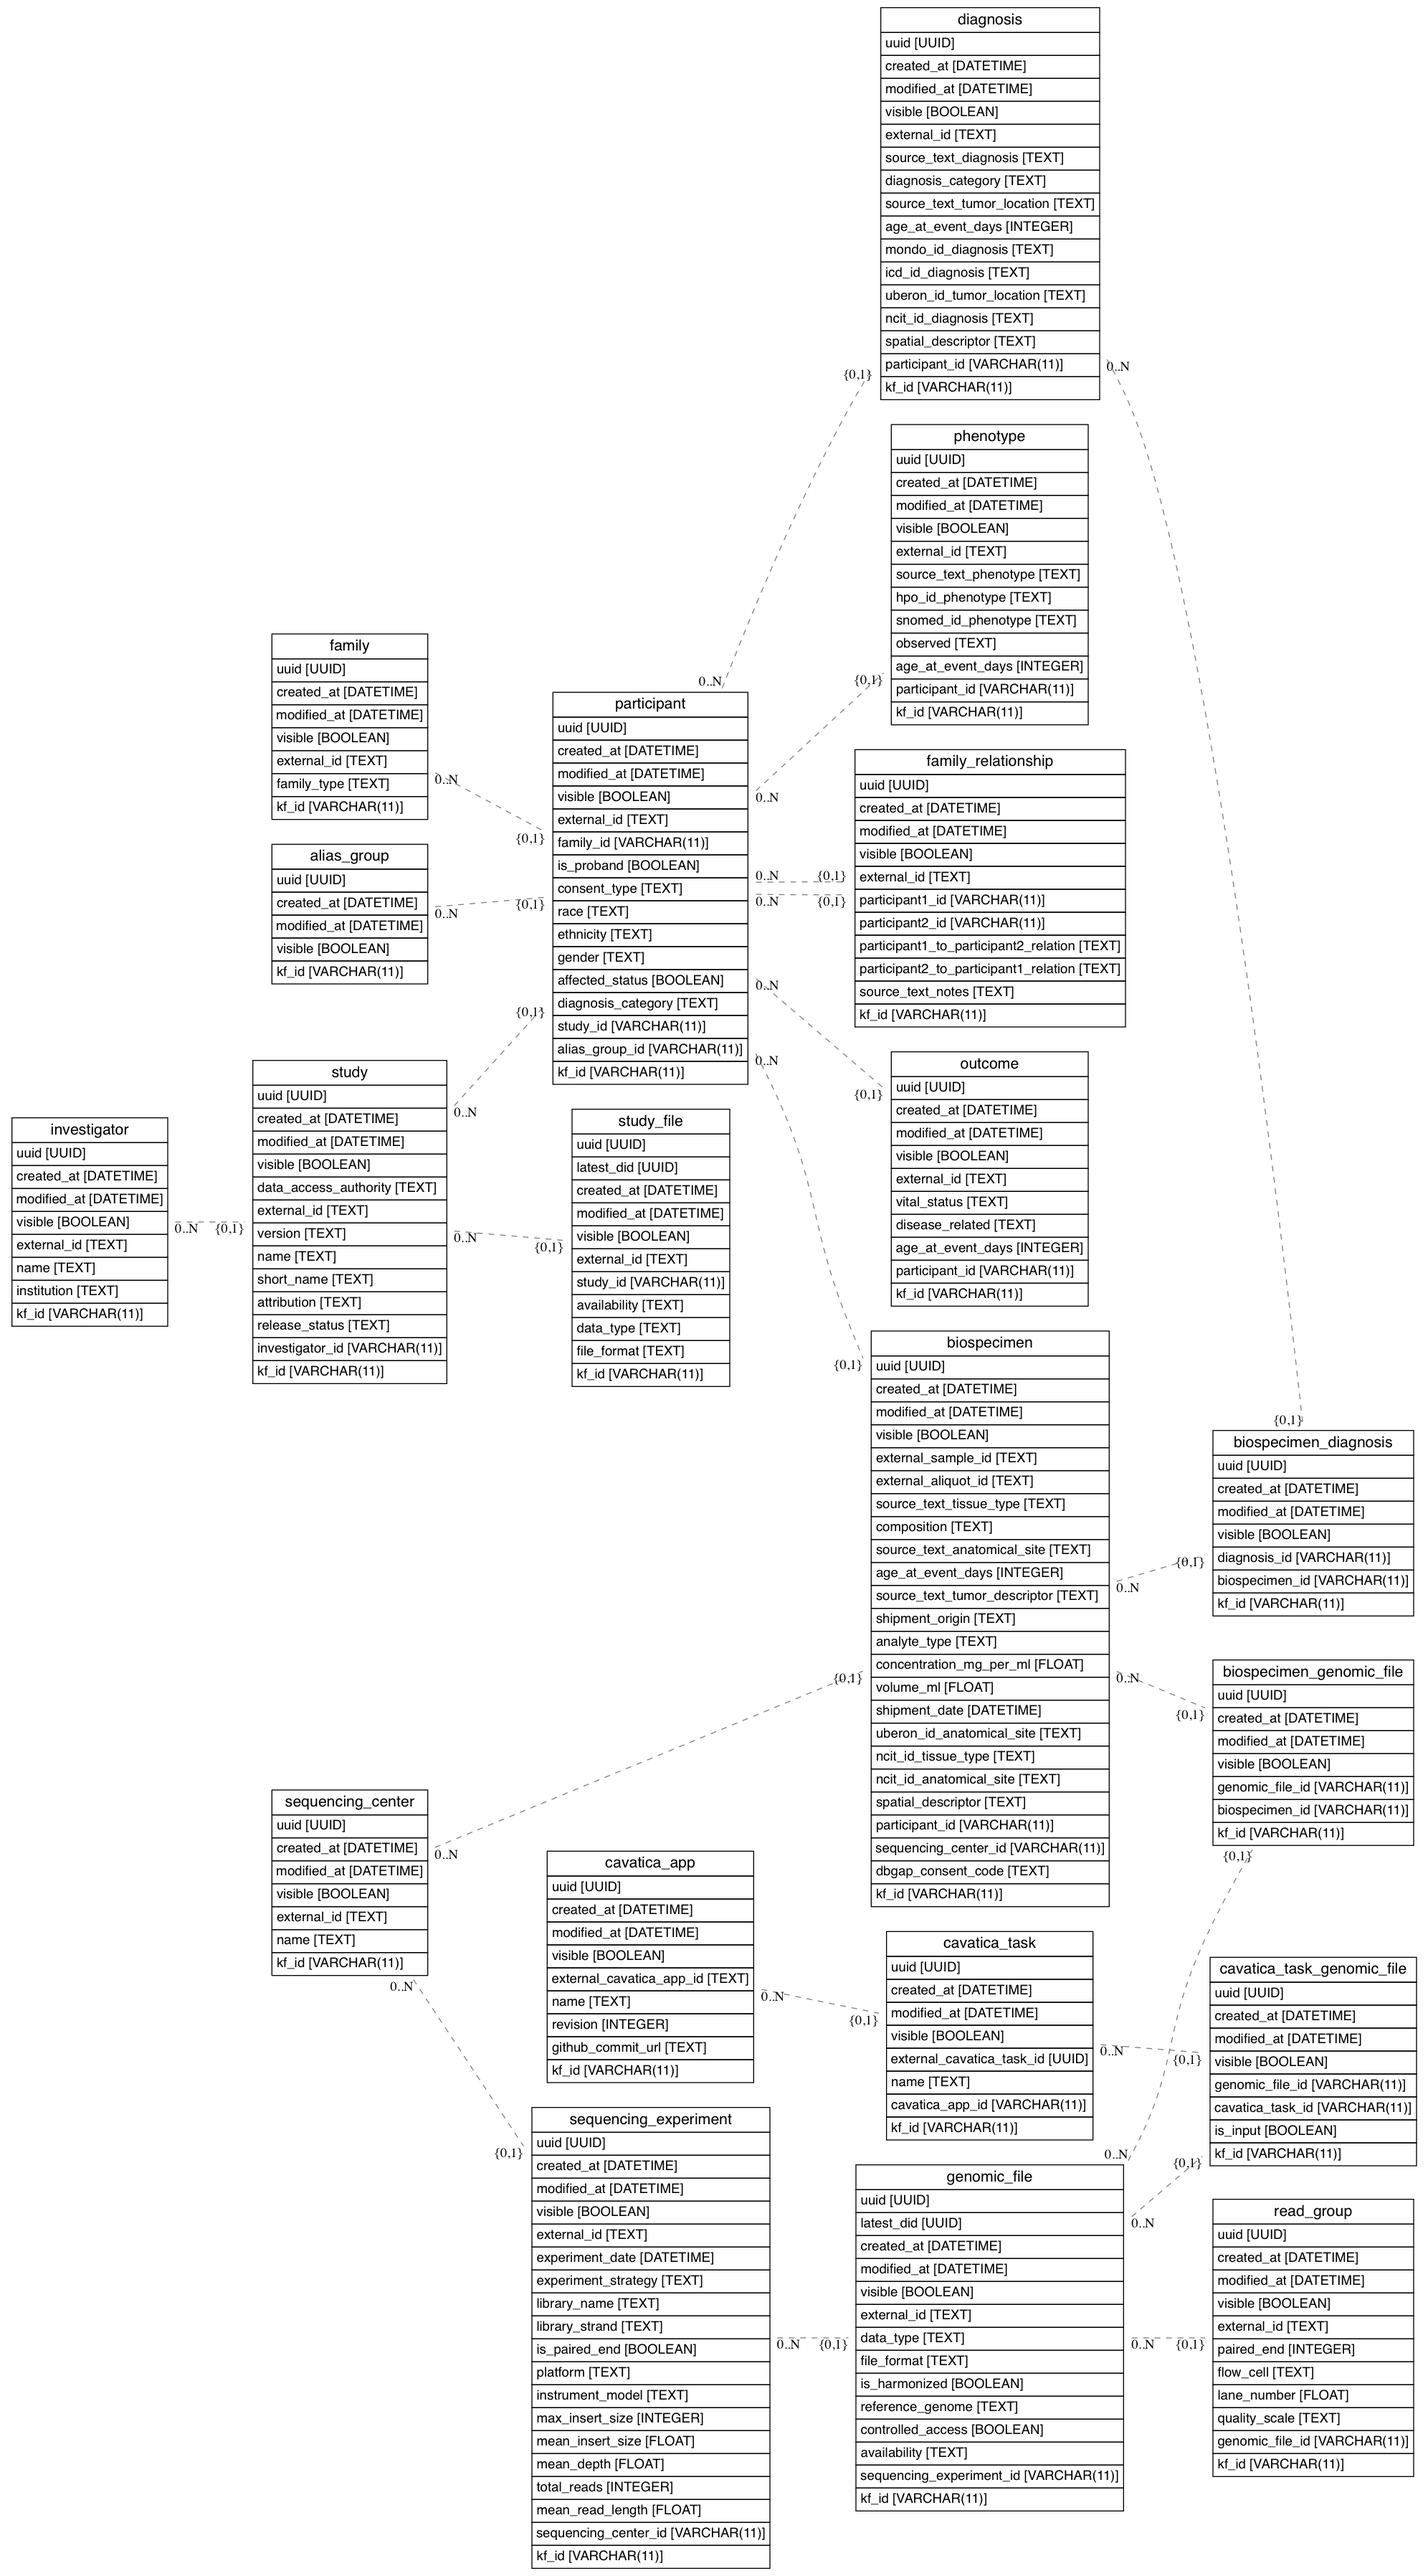
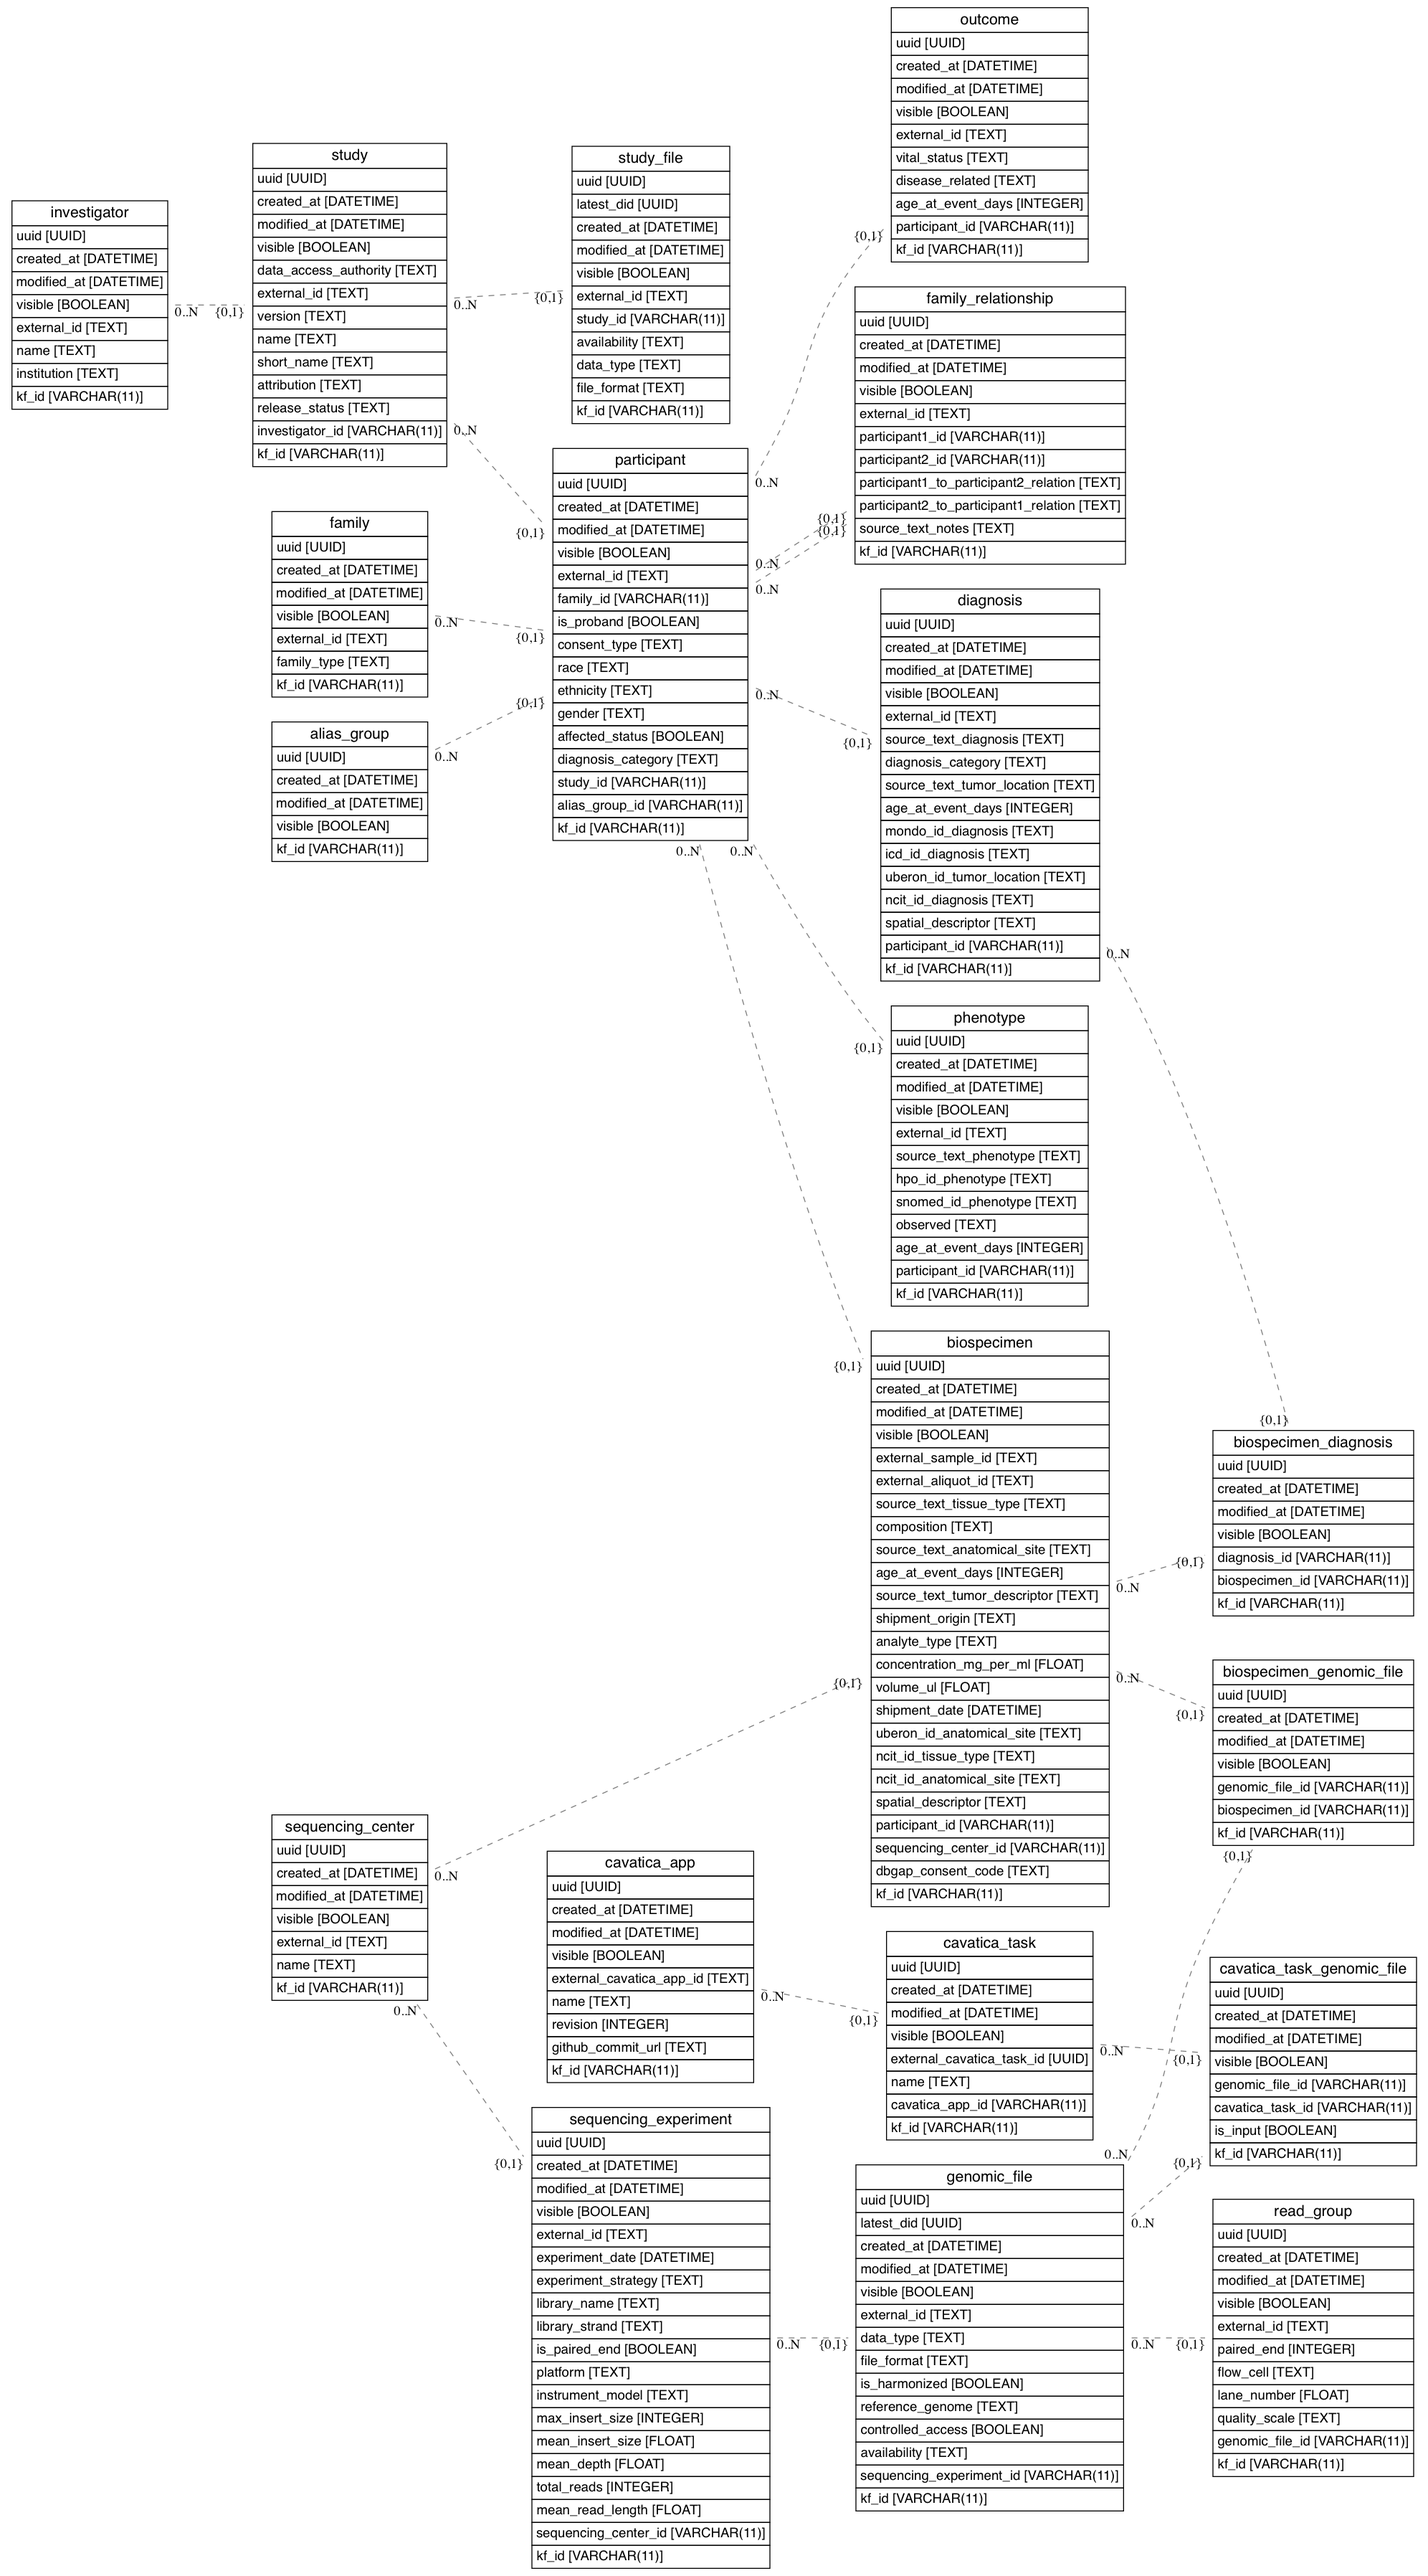
:sparkles::white_check_mark: Rename field volume_ml to volume_ul

diff --git a/tests/biospecimen/test_biospecimen_resources.py b/tests/biospecimen/test_biospecimen_resources.py
@@ -43,7 +43,7 @@ class BiospecimenTest(FlaskTestCase):
             'shipment_origin': 'CORIELL',
             'analyte_type': 'DNA',
             'concentration_mg_per_ml': 100,
-            'volume_ml': 12.67,
+            'volume_ul': 12.67,
             'shipment_date': str(dt.replace(tzinfo=tz.tzutc())),
             'spatial_descriptor': 'left side',
             'ncit_id_tissue_type': 'Test',
@@ -95,7 +95,7 @@ class BiospecimenTest(FlaskTestCase):
             'source_text_tissue_type': 'abnormal',
             'analyte_type': 'DNA',
             'concentration_mg_per_ml': 200,
-            'volume_ml': 13.99,
+            'volume_ul': 13.99,
             'participant_id': s1['participant_id'],
             'sequencing_center_id': s1['sequencing_center_id']
         }
@@ -315,7 +315,7 @@ class BiospecimenTest(FlaskTestCase):
             'shipment_origin': 'CORIELL',
             'analyte_type': 'DNA',
             'concentration_mg_per_ml': 100,
-            'volume_ml': 12.67,
+            'volume_ul': 12.67,
             'shipment_date': dt,
             'spatial_descriptor': 'left side',
             'ncit_id_tissue_type': 'Test',

diff --git a/dataservice/api/biospecimen/models.py b/dataservice/api/biospecimen/models.py
@@ -49,7 +49,7 @@ class Biospecimen(db.Model, Base):
     :param concentration_mg_per_ml: The concentration of an analyte or aliquot
            extracted from the biospecimen or biospecimen portion, measured in
            milligrams per milliliter
-    :param volume_ml: The volume in microliters (ml) of the aliquots derived
+    :param volume_ul: The volume in microliters (ul) of the aliquots derived
            from the analyte(s) shipped for sequencing and characterization
     :param shipment_date: The date item was shipped in YYYY-MM-DD format
     :param uberon_id_anatomical_site: The ID of the term from Uber-anatomy
@@ -90,7 +90,7 @@ class Biospecimen(db.Model, Base):
                              doc='The molecular description of the aliquot')
     concentration_mg_per_ml = db.Column(db.Float(),
                                         doc='The concentration of the aliquot')
-    volume_ml = db.Column(db.Float(),
+    volume_ul = db.Column(db.Float(),
                           doc='The volume of the aliquot')
     shipment_date = db.Column(db.DateTime(),
                               doc='The date the aliquot was shipped')

diff --git a/dataservice/api/biospecimen/schemas.py b/dataservice/api/biospecimen/schemas.py
@@ -29,7 +29,7 @@ class BiospecimenSchema(BaseSchema):
                                   validate=validate_age)
     concentration_mg_per_ml = field_for(Biospecimen, 'concentration_mg_per_ml',
                                         validate=validate_positive_number)
-    volume_ml = field_for(Biospecimen, 'volume_ml',
+    volume_ul = field_for(Biospecimen, 'volume_ul',
                           validate=validate_positive_number)
 
     shipment_date = field_for(Biospecimen, 'shipment_date',

diff --git a/tests/biospecimen/test_biospecimen_models.py b/tests/biospecimen/test_biospecimen_models.py
@@ -351,7 +351,7 @@ class ModelTest(FlaskTestCase):
             'shipment_origin': 'CORIELL',
             'analyte_type': 'DNA',
             'concentration_mg_per_ml': 100.0,
-            'volume_ml': 12.67,
+            'volume_ul': 12.67,
             'shipment_date': dt,
             'uberon_id_anatomical_site': 'UBERON:0000955',
             'spatial_descriptor': 'left side',
